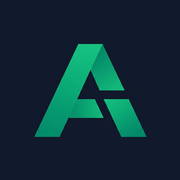
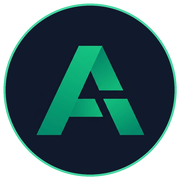
update 8

diff --git a/src/components/Logo.jsx b/src/components/Logo.jsx
@@ -2,24 +2,23 @@ import { motion } from "framer-motion";
 
 export default function Logo({ size = "md", className = "", onClick }) {
   const containerClasses = {
-    sm: "w-8 h-8 rounded-lg",
-    md: "w-10 h-10 rounded-xl",
-    lg: "w-16 h-16 rounded-2xl",
+    sm: "w-8 h-8 rounded-full",
+    md: "w-10 h-10 rounded-full",
+    lg: "w-16 h-16 rounded-full",
   };
-
 
   return (
     <motion.div
-      whileHover={{ scale: 1.06 }}
+      whileHover={{ scale: 1.08 }}
       whileTap={{ scale: 0.92 }}
       onClick={onClick}
-      className={`${containerClasses[size]} shrink-0 relative overflow-hidden shadow-lg shadow-emerald-500/25 border border-slate-700/80 bg-slate-900 group ${onClick ? 'cursor-pointer' : ''} ${className}`}
+      className={`${containerClasses[size]} shrink-0 relative overflow-hidden rounded-full shadow-lg shadow-emerald-500/20 group ${onClick ? 'cursor-pointer' : ''} ${className}`}
       title={onClick ? "Click to refresh" : "Anura Biz Book"}
     >
       <img
         src="/pwa-192x192.png"
         alt="Anura Biz Book Logo"
-        className="w-full h-full object-cover transition-transform duration-200 group-hover:scale-105 select-none pointer-events-none"
+        className="w-full h-full object-cover rounded-full transition-transform duration-200 group-hover:scale-110 select-none pointer-events-none"
       />
     </motion.div>
   );

diff --git a/index.html b/index.html
@@ -28,8 +28,9 @@
         z-index:9999;
       ">
         <img src="/pwa-192x192.png" width="72" height="72"
-          style="border-radius:20px;margin-bottom:20px;
-                 box-shadow:0 0 40px rgba(16,185,129,0.3);"
+          style="border-radius:50%;margin-bottom:20px;
+                 box-shadow:0 0 40px rgba(16,185,129,0.3);
+                 border:2px solid rgba(16,185,129,0.3);"
           alt="Anura Biz Book" />
         <div style="
           width:32px;height:32px;
